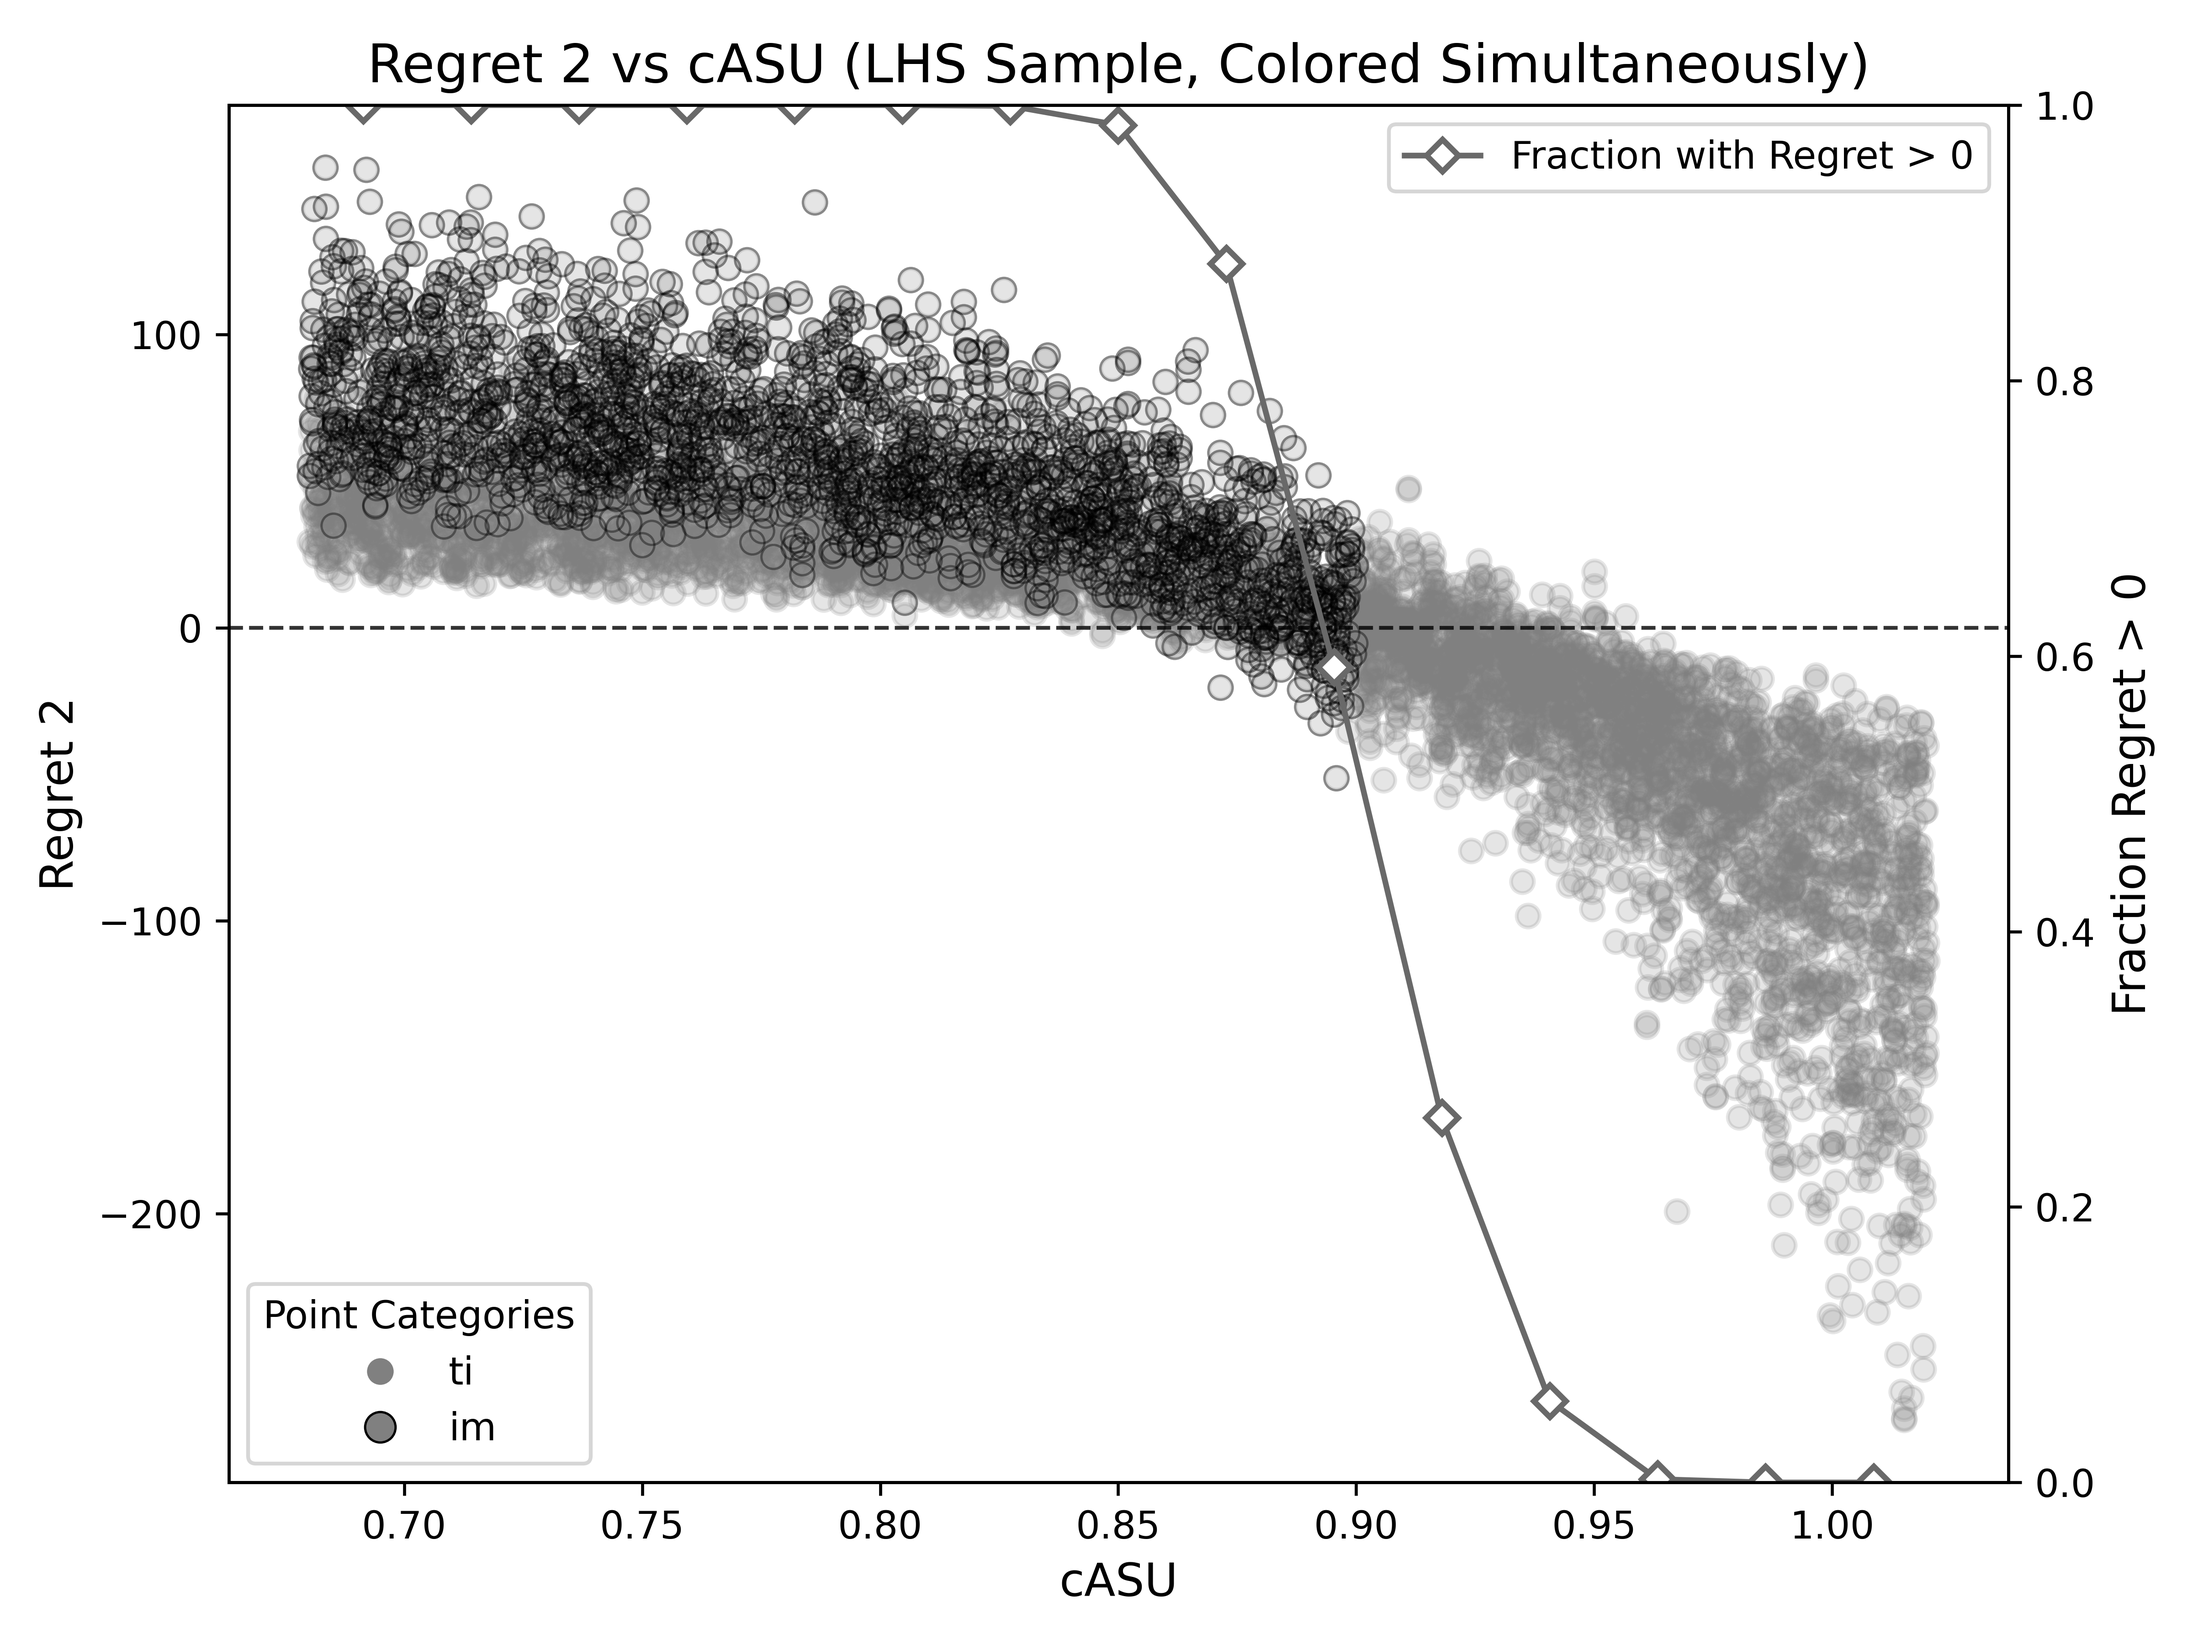
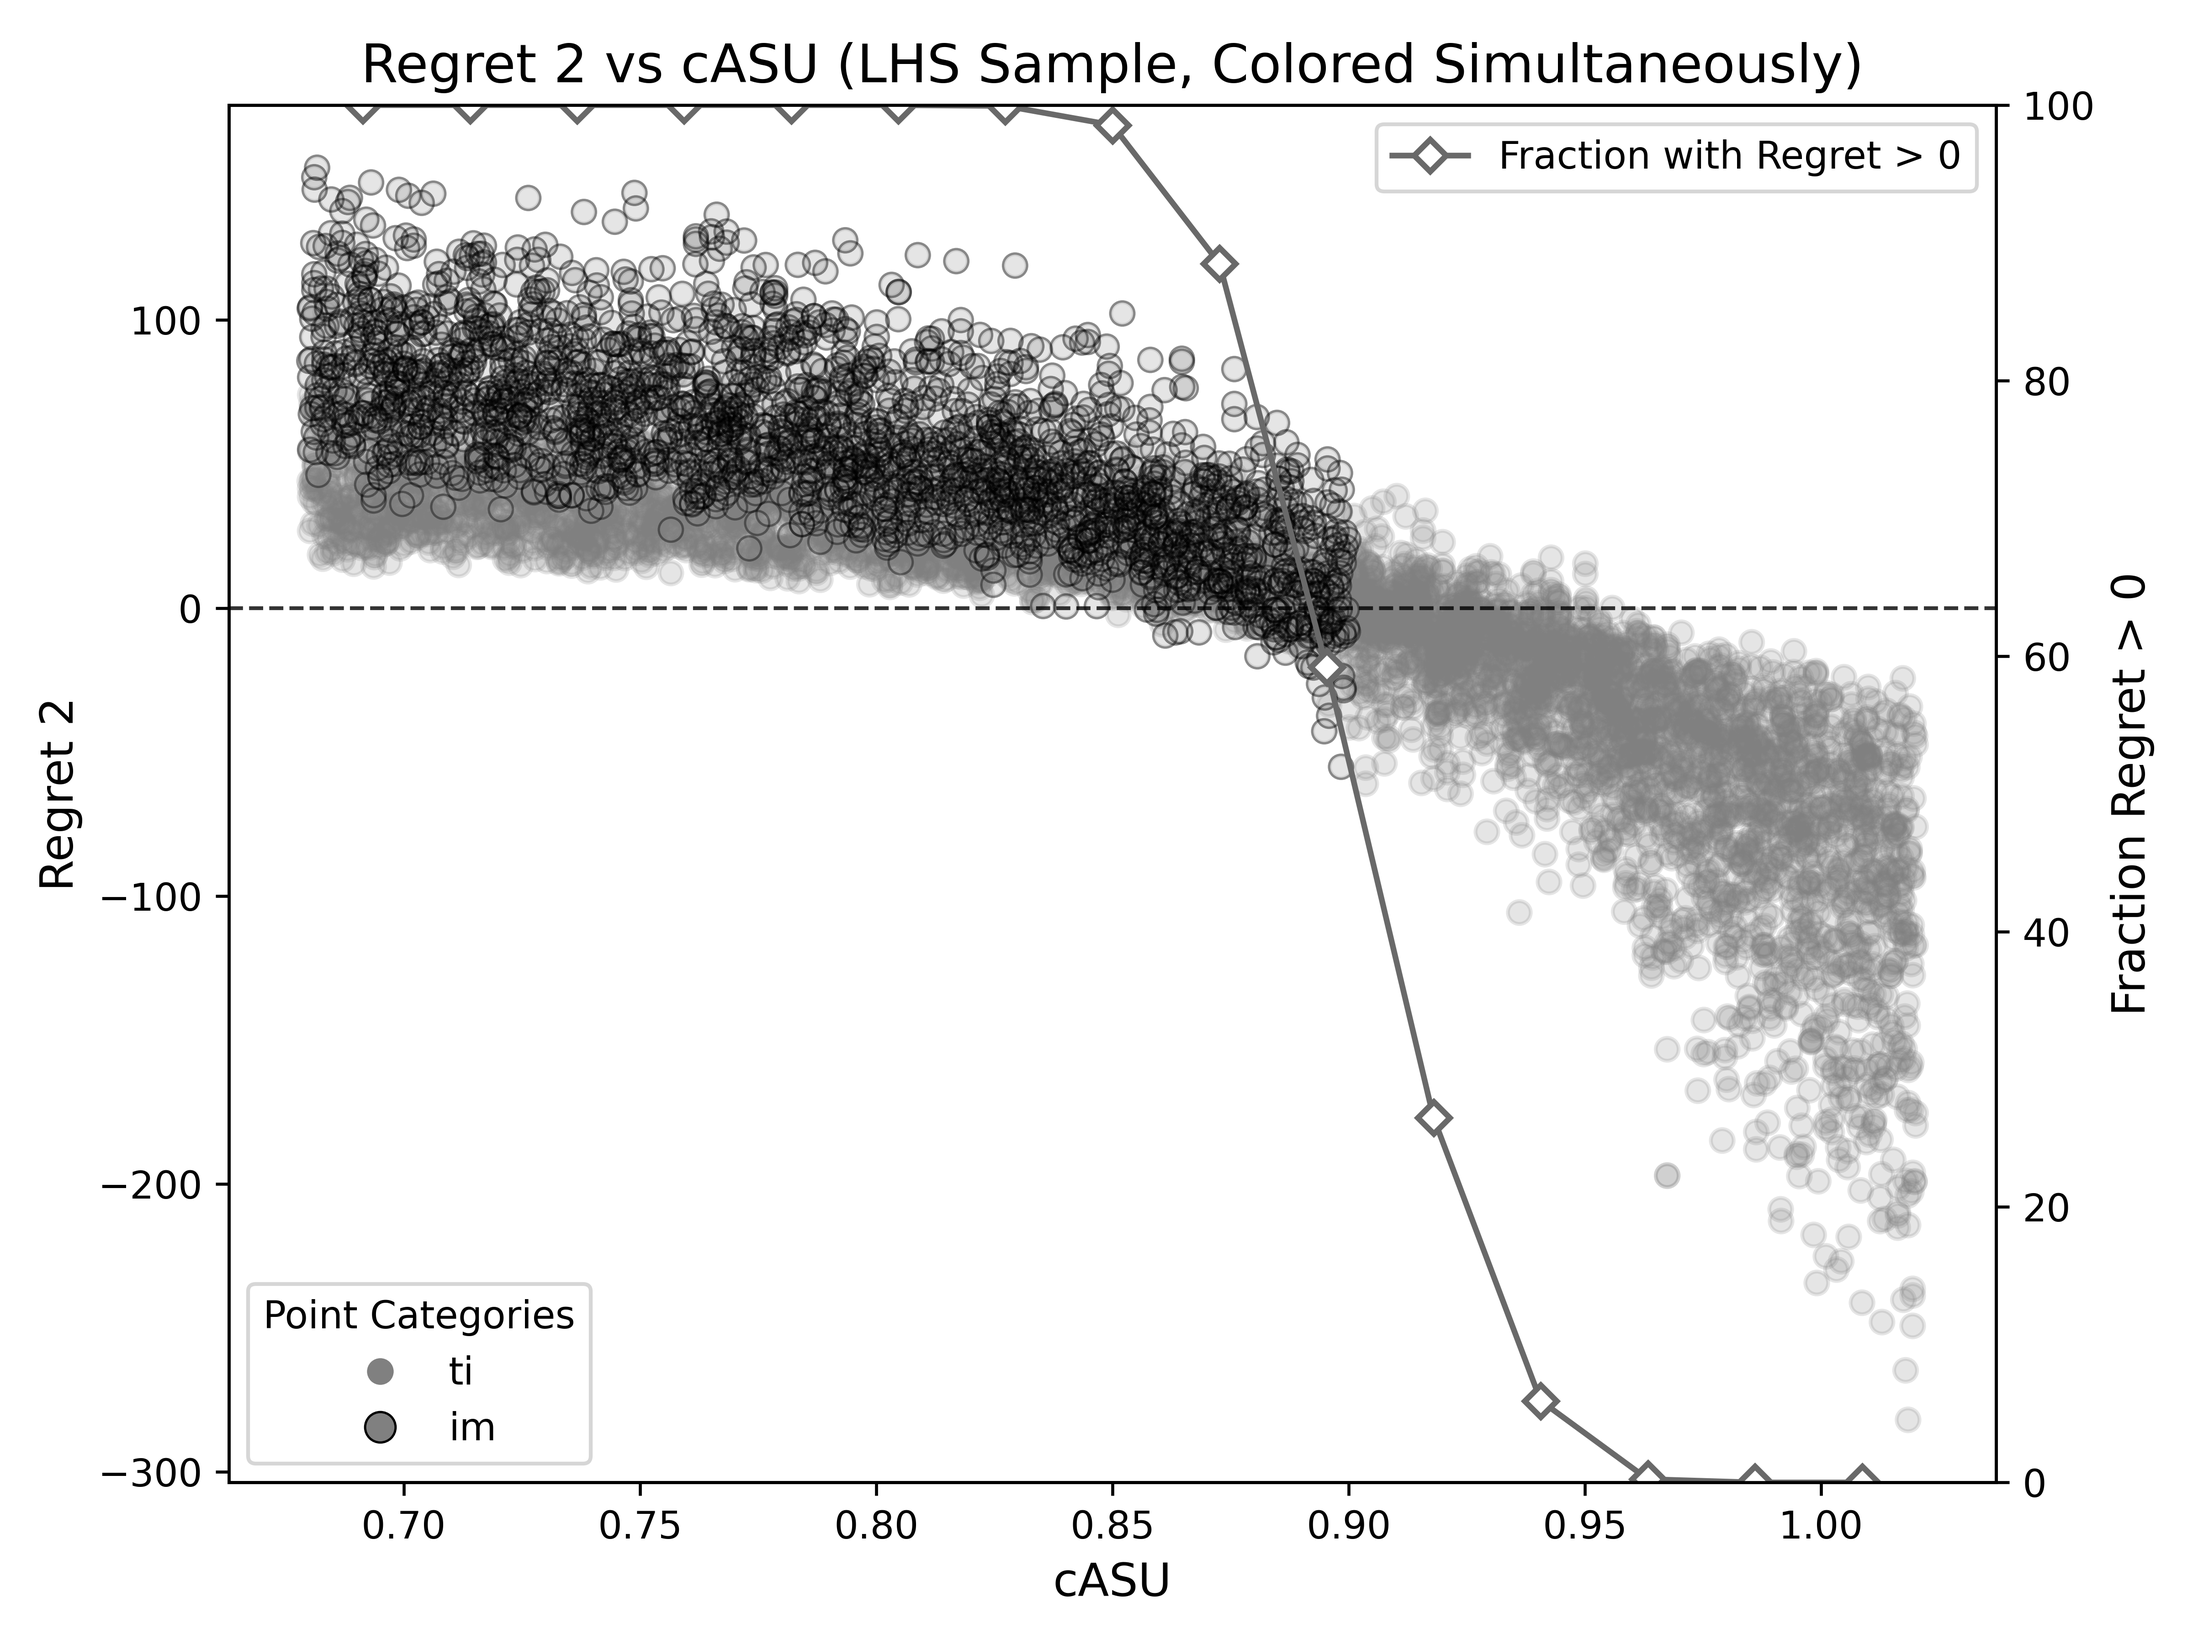
Prints for CLC edits

diff --git a/controller_sobol.py b/controller_sobol.py
@@ -38,7 +38,7 @@ model.uncertainties = [
     # RealParameter("usd", 0.90, 1.00),
     RealParameter("ctrans", 554, 755),        # SEK/tCO2, Kjärstad @Gävle 555nm, INCLUDES C&L???
     RealParameter("cstore", 201, 496),        # SEK/tCO2, Kjärstad @NL, calculate by total_system - only_transport
-    RealParameter("crc", 50, 300),          # Reference cost
+    RealParameter("crc", 25, 300),          # Reference cost
     RealParameter("cmea", 25, 35),         # SEK/kg, Ramboll
     RealParameter("coc", 200, 600),         # EUR/t, Magnus/Felicia
 
@@ -52,7 +52,7 @@ model.uncertainties = [
     RealParameter("overrun", 0.00, 0.45),           #Beiron FOAK=NOAK costs
     RealParameter("immature", 0.00, 3.00),       
 
-    RealParameter("EUA", 5, 10),    # +ETS increases
+    RealParameter("EUA", 0, 10),    # +ETS increases
     RealParameter("ceiling", 200, 350),
 
     CategoricalParameter("Bioshortage", [True, False]),
@@ -60,7 +60,7 @@ model.uncertainties = [
     CategoricalParameter("Auction", [True, False]),
     # CategoricalParameter("Denial", [True, False]),
     CategoricalParameter("Integration", [True, False]),
-    CategoricalParameter("Capping", [True, False]),
+    # CategoricalParameter("Capping", [True, False]),
     CategoricalParameter("Procurement", [True, False]),
     CategoricalParameter("Time", ["Baseline", "Downtime", "Uptime"]),
 
@@ -84,7 +84,7 @@ model.outcomes = [
 ]
 
 ema_logging.log_to_stderr(ema_logging.INFO)
-n_scenarios = 2000
+n_scenarios = 3000
 n_policies = 0
 
 # If Sobol sampling:
@@ -107,7 +107,7 @@ def analyze(results, ooi):
         sobol_indices["S2_conf"], index=problem["names"], columns=problem["names"]
     )
     return sobol_stats, s2, s2_conf, problem
-sobol_stats, s2, s2_conf, problem = analyze(results, "regret_3")
+sobol_stats, s2, s2_conf, problem = analyze(results, "regret_2")
 print(sobol_stats)
 print(s2)
 print(s2_conf)
@@ -174,13 +174,13 @@ for i in range(n):
 ax.scatter(x, y, s=ST_scaled, color='crimson', alpha=1.0, edgecolor='none')
 
 # Overlay S1 nodes (on top)
-ax.scatter(x, y, s=S1_scaled, color='deepskyblue', alpha=1.0, edgecolor='none')
+ax.scatter(x, y, s=S1_scaled, color='lightpink', alpha=1.0, edgecolor='none')
 
 # Add labels
 for i in range(n):
     ax.text(x[i]*1.5, y[i]*1.5, labels[i], ha='center', va='center', fontsize=7)
     if ST[i] > 0.08:
-        ax.text(x[i], y[i], round(ST[i],2), color='midnightblue', ha='center', va='center', fontsize=7)
+        ax.text(x[i], y[i], round(ST[i],2), color='black', ha='center', va='center', fontsize=7)
 
 circle = plt.Circle((0, 0), 1.2, color='black', fill=False, linewidth=1.0, zorder=10)
 ax.add_patch(circle)

diff --git a/model.py b/model.py
@@ -144,12 +144,17 @@ def regret_BECCS(
     Qar = dHox * O2oc           #[MW]
     Qfr = dHred * O2oc
     Qoxy = LHVO2 * O2oxy
-    # print("CLC heat summarizes to: ", sum([Qar, Qfr, Qoxy]) - Qfuel)
+    print("CLC heat summarizes to: ", sum([Qar, Qfr, Qoxy]) - Qfuel)
+    print(Qar)
+    print(Qfr)
+    print(Qoxy)
+    print(Qfuel)
 
     mCO2 = 1.0105 * mfuel               #[kgCO2/s]
     mH2O = 0.7416 * mfuel               #[kgH2O/s]
     mfluegas = mCO2 + mH2O + O2oxy*32   #[kg/s], inside the post-oxidation chamber (incl. O2oxy)
     mash = 0.01375*mfuel
+    print(mfluegas)
  
     P = REF.P
     Pasu = Wasu/1000*O2oxy*32           #[MW] 
@@ -171,8 +176,8 @@ def regret_BECCS(
     memitted = mCO2 * (1-rate)
     OXY = ConversionTech("oxy", Qfuel, REF.Qnet , Pnet, memitted, mcaptured, operating+operating_increase)
 
-    # for tech in [REF,AMINE,OXY,CLC]:
-    #     tech.print()
+    for tech in [REF,AMINE,OXY,CLC]:
+        tech.print()
 
     ### -------------- CALCULATING COSTS AND NPV ------------- ###
     # Calculating CAPEX per item [MEUR]:
@@ -190,6 +195,10 @@ def regret_BECCS(
         'CL' : 25.5 * mcaptured/37.31 * CEPCI/607.5 *1.3,  #Assuming that Deng had cost year = 2019 NOTE: unclear if installation 1.3 should be included or not? NOTE: Kjästad estimates CL cost in SKEPPKOSTNAD excel?
         'interim' : (53000+2400*(4000)**0.6 )*10**-6 *usd * CEPCI/499.6 *1.2, #Function from Judit, 4000m3 from Ramboll, CEPCI from Google
     }
+    for item, cost in CLC.shopping_list.items():
+        print(f"{item}: {cost:.2f}")
+
+    print(" HEAT CONVECTIVE PASS NEEDED")
     OXY.shopping_list = {
         'ASU' : 0.02*(59)**0.067/((1-0.95)**0.073) * (O2demand*1000*3600/453.592)**cASU *usd * CEPCI/499.6 *1.3,
         'CL' : 25.5 * mcaptured/37.31 * CEPCI/607.5 *1.3,  
@@ -203,6 +212,7 @@ def regret_BECCS(
     # Escalating CAPEX of CLC and OXY
     initial_items = ['FR', 'cyclone', 'POC', 'ASU', 'OCash',] # These should have an additional contingency
     delayed_items = ['CL', 'interim']
+    print(" ASU OF CLC IS DEPLOYED EARLY - NO IT SHOULD BE DELAYED!!! --- and add 25% HEX CONVECTIONSTRÅK AFTER FR <- a signifcant cost, Magnus thinks")
 
     BEC =  sum(value for key, value in CLC.shopping_list.items() if key in initial_items)
     EPCC = BEC*(1 + EPC) # To harmonize with Ramboll amine costs

diff --git a/controller.py b/controller.py
@@ -89,8 +89,8 @@ model.outcomes = [
 # ]
 
 ema_logging.log_to_stderr(ema_logging.INFO)
-n_scenarios = 5000
-n_policies = 200
+n_scenarios = 500
+n_policies = 20
 # Regular LHS sampling:
 results = perform_experiments(model, n_scenarios, n_policies, uncertainty_sampling = Samplers.LHS, lever_sampling = Samplers.LHS)
 experiments, outcomes = results
@@ -120,6 +120,7 @@ subsets = {
 # Set up color mapping
 regret_col = "regret_1"
 cmap = cm.RdYlGn_r
+cmap = cm.coolwarm
 norm = mcolors.Normalize(vmin=0, vmax=1)
 
 ymin, ymax = -800, 800
@@ -189,6 +190,7 @@ subsets = {
 # Set up color mapping
 regret_col = "regret_2"
 cmap = cm.RdYlGn_r
+cmap = cm.coolwarm
 norm = mcolors.Normalize(vmin=0, vmax=1)
 
 ymin, ymax = -250, 250
@@ -261,6 +263,7 @@ subsets = {
 # Set up color mapping
 regret_col = "regret_3"
 cmap = cm.RdYlGn_r
+cmap = cm.coolwarm
 norm = mcolors.Normalize(vmin=0, vmax=1)
 
 ymin, ymax = -250, 250
@@ -320,10 +323,11 @@ plt.savefig("regret_3.png", dpi=600)
 ## ------------- SEPARATE COLORBAR -------------
 # Use the exact same colormap and normalization from the boxplot
 cmap = cm.RdYlGn_r
+cmap = cm.coolwarm
 norm = mcolors.Normalize(vmin=0, vmax=1)
 
 # Create separate figure for colorbar
-fig, ax = plt.subplots(figsize=(1.5, 6))  # Adjust width and height as needed
+fig, ax = plt.subplots(figsize=(2, 6))  # Adjust width and height as needed
 
 # ScalarMappable to link color map and normalization
 sm = cm.ScalarMappable(cmap=cmap, norm=norm)

diff --git a/sdplot_4.py b/sdplot_4.py
@@ -66,7 +66,7 @@ fig, ax = plt.subplots(figsize=(8, 6))
 # )
 # Single scatter call with per-point color from 'color' column
 ax.scatter(
-    data_lhs["immature"],
+    data_lhs["immature"]*100,
     data_lhs["regret_3"],
     color=data_lhs["color"],
     alpha=0.4,
@@ -76,7 +76,7 @@ ax.scatter(
 # Overlay: highlight with distinct edge
 overlay = data_lhs[((data_lhs["timing"] == 5) | (data_lhs["timing"] == 10)) & (data_lhs["immature"] < 1.77)]
 ax.scatter(
-    overlay["immature"],
+    overlay["immature"]*100,
     overlay["regret_3"],
     facecolors='none',
     edgecolors='black',
@@ -107,7 +107,7 @@ ax.tick_params(labelsize=10)
 # Plot DENSITY on secondary y-axis
 ax2 = ax.twinx()
 ax2.plot(
-    bin_centers,
+    bin_centers*100,
     regret_fraction*100,
     linestyle="-",
     marker="D",
